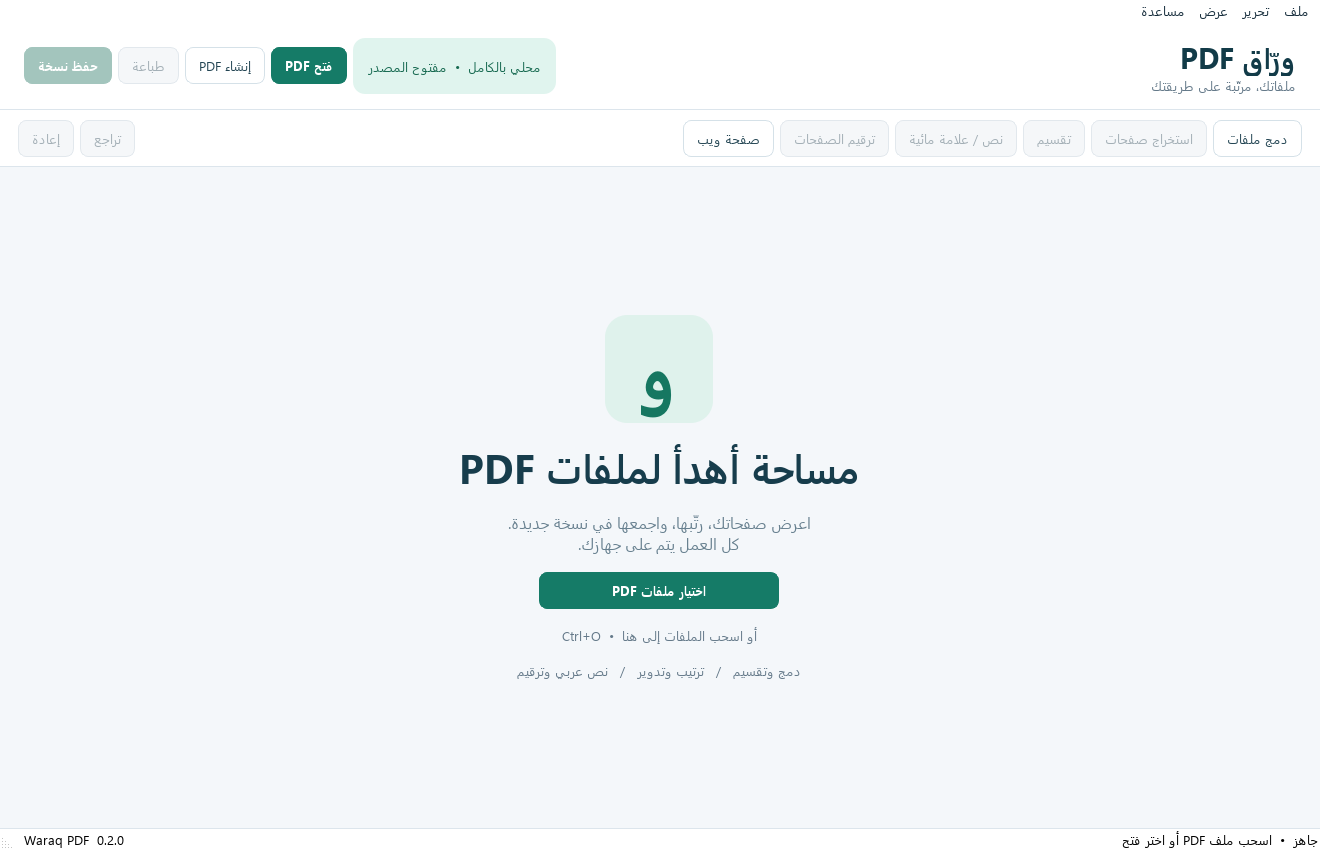
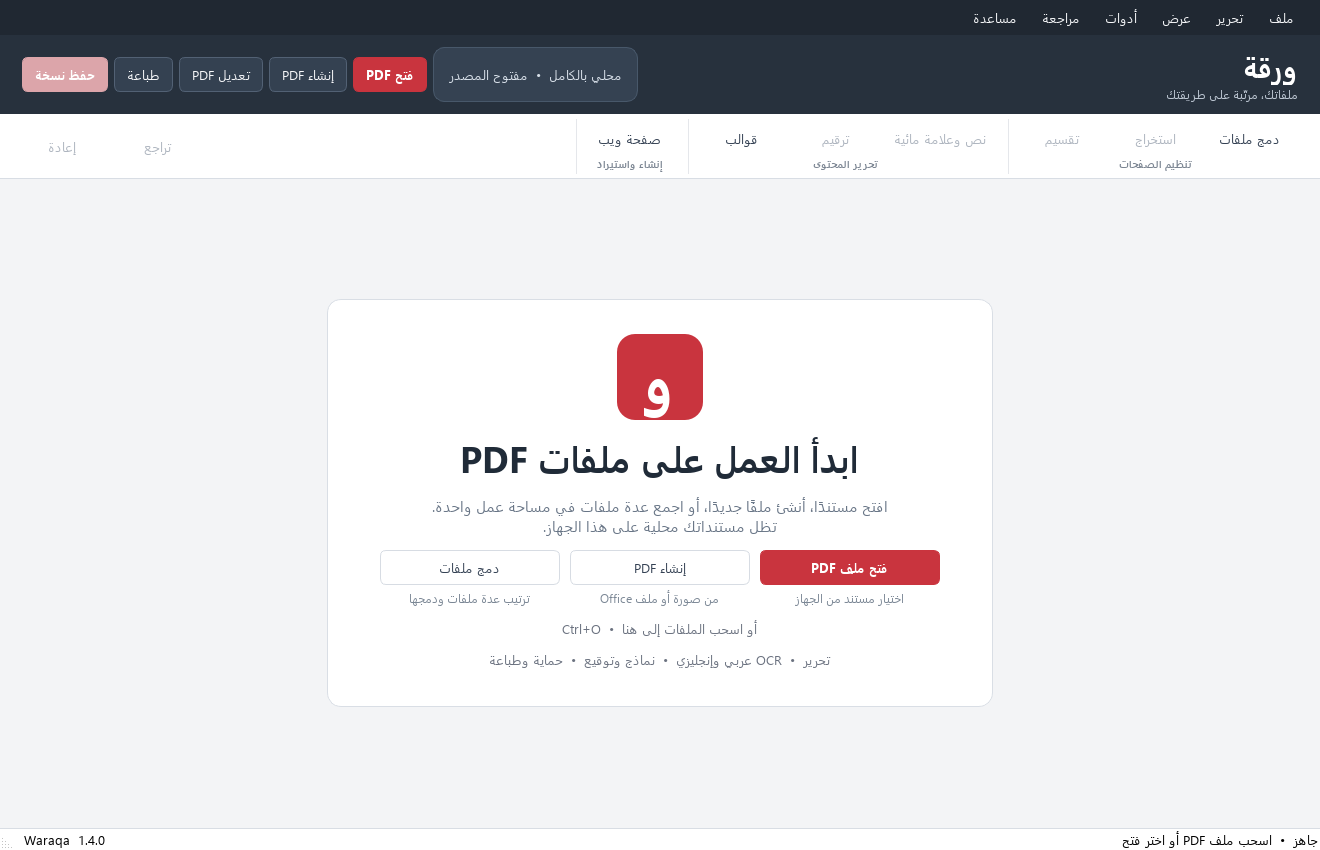
Redesign professional workspace for Waraqa 1.5.0

diff --git a/waraq/app.py b/waraq/app.py
@@ -16,7 +16,7 @@ from PySide6.QtPrintSupport import QPrinter, QPrintDialog, QPrintPreviewDialog, 
 from PySide6.QtWidgets import (
     QApplication, QAbstractItemView, QCheckBox, QComboBox, QDialog,
     QDialogButtonBox, QDoubleSpinBox, QFileDialog, QFormLayout, QFrame,
-    QHBoxLayout, QInputDialog, QLabel, QLineEdit, QListWidget,
+    QHBoxLayout, QInputDialog, QLabel, QLineEdit, QListWidget, QGridLayout,
     QListWidgetItem, QMainWindow, QMessageBox, QPushButton, QScrollArea,
     QSizePolicy, QSpinBox, QSplitter, QStackedWidget, QStatusBar,
     QToolBar, QVBoxLayout, QWidget, QStyledItemDelegate, QStyle, QProgressDialog, QDockWidget,
@@ -51,52 +51,71 @@ from .shortcuts import validate_shortcut_map
 
 STYLE = """
 * { font-family: 'Segoe UI'; font-size: 10pt; }
-QMainWindow, QDialog { background: #f4f7fa; color: #152c3b; }
-QMenuBar, QMenu { background: #ffffff; color: #152c3b; }
-QMenu::item:selected { background: #dff4ef; }
-QFrame#header { background: #ffffff; border-bottom: 1px solid #dce5ec; }
-QLabel#brand { font-size: 22pt; font-weight: 750; color: #123b48; }
-QLabel#tagline, QLabel#subtle { color: #647989; }
-QLabel#section { color: #274656; font-weight: 650; font-size: 11pt; }
-QLabel#badge { background: #e0f4ee; color: #166950; padding: 6px 12px; border-radius: 12px; }
-QFrame#tools { background: #ffffff; border-bottom: 1px solid #dce5ec; }
-QPushButton { background: #ffffff; color: #234553; border: 1px solid #d5e1e8; border-radius: 8px; padding: 8px 13px; min-height: 19px; }
-QPushButton:hover { background: #edf6f4; border-color: #81b5aa; }
-QPushButton:pressed { background: #d8eee8; }
-QPushButton:disabled { color: #a3afb6; background: #f5f7f9; border-color: #e2e8ed; }
-QPushButton#primary { background: #157b67; border-color: #157b67; color: white; font-weight: 650; }
-QPushButton#primary:hover { background: #106451; }
-QPushButton#primary:disabled { background: #a3c5bd; border-color: #a3c5bd; color: white; }
+QMainWindow, QDialog { background: #f3f4f6; color: #1f2937; }
+QMenuBar { background: #202832; color: #f7f8fa; padding: 2px 10px; spacing: 5px; }
+QMenuBar::item { padding: 7px 10px; border-radius: 5px; }
+QMenuBar::item:selected { background: #374151; }
+QMenu { background: #ffffff; color: #1f2937; border: 1px solid #d1d5db; padding: 6px; }
+QMenu::item { padding: 7px 26px; border-radius: 4px; }
+QMenu::item:selected { background: #feecee; color: #9f2530; }
+QMenu::separator { height: 1px; background: #e5e7eb; margin: 5px 8px; }
+QFrame#header { background: #27313d; border: none; }
+QLabel#brand { font-size: 22pt; font-weight: 750; color: #ffffff; }
+QLabel#tagline { color: #bdc7d3; font-size: 9pt; }
+QLabel#subtle { color: #6b7280; }
+QLabel#section { color: #263445; font-weight: 700; font-size: 11pt; }
+QLabel#badge { background: #354252; color: #d9e1ea; padding: 6px 12px; border: 1px solid #48586a; border-radius: 11px; }
+QFrame#tools { background: #ffffff; border-bottom: 1px solid #d8dde4; }
+QFrame#toolGroup { background: transparent; border-left: 1px solid #e5e7eb; }
+QLabel#toolGroupTitle { color: #7a8491; font-size: 8pt; font-weight: 600; }
+QPushButton { background: #ffffff; color: #344153; border: 1px solid #d7dce3; border-radius: 6px; padding: 7px 12px; min-height: 19px; }
+QPushButton:hover { background: #f8e9eb; border-color: #d8656c; color: #9d2831; }
+QPushButton:pressed { background: #f4d7da; }
+QPushButton:disabled { color: #aeb5bf; background: #f6f7f9; border-color: #e7e9ed; }
+QPushButton#primary { background: #c9343e; border-color: #c9343e; color: white; font-weight: 700; }
+QPushButton#primary:hover { background: #ac2832; border-color: #ac2832; color: white; }
+QPushButton#primary:disabled { background: #dca5aa; border-color: #dca5aa; color: white; }
+QPushButton#headerAction { background: #344151; color: #f7f8fa; border-color: #526174; }
+QPushButton#headerAction:hover { background: #46576a; color: white; border-color: #718198; }
+QPushButton#toolButton { border: none; background: transparent; min-width: 72px; padding: 8px 10px; }
+QPushButton#toolButton:hover { background: #f8e9eb; color: #a52c35; }
 QPushButton#danger { color: #b33e46; }
 QPushButton#ghost { background: transparent; border: none; color: #416370; }
-QFrame#sidebar { background: #ffffff; border-left: 1px solid #dce5ec; }
+QFrame#sidebar { background: #ffffff; border-left: 1px solid #d8dde4; }
 QListWidget { background: #f8fafc; border: none; outline: none; padding: 8px; }
-QListWidget::item { border: 1px solid #dfe7ed; border-radius: 9px; margin: 5px 2px; padding: 9px; color: #3a5665; background: white; }
-QListWidget::item:selected { background: #e5f5ef; border: 2px solid #24977c; color: #124f40; }
-QListWidget::item:hover { border-color: #76b7a6; }
-QScrollArea { border: none; background: #dfe7ed; }
-QWidget#previewSurface { background: #dfe7ed; }
-QLabel#pageImage { background: white; border: 1px solid #c7d2da; }
-QFrame#viewerBar { background: #f9fbfc; border-bottom: 1px solid #dce5ec; }
-QLineEdit, QSpinBox, QDoubleSpinBox, QComboBox { background: white; color: #152c3b; border: 1px solid #cfdae2; border-radius: 6px; padding: 6px; min-height: 20px; }
-QStatusBar { background: #ffffff; border-top: 1px solid #dce5ec; color: #5b7382; }
-QLabel#emptyTitle { font-size: 30pt; font-weight: 750; color: #173d4c; }
-QLabel#emptyText { font-size: 12pt; color: #67808f; }
-QLabel#emptyMark { font-size: 54pt; font-weight: 750; background: #dff2ec; color: #167761; border-radius: 22px; }
-QSplitter::handle { background: #dce5ec; width: 1px; }
-QToolTip { background: #173d4c; color: white; border: none; padding: 5px; }
+QListWidget::item { border: 1px solid #dfe3e8; border-radius: 7px; margin: 5px 2px; padding: 9px; color: #374151; background: white; }
+QListWidget::item:selected { background: #fff0f1; border: 2px solid #cc3b45; color: #8f232c; }
+QListWidget::item:hover { border-color: #d1787e; }
+QScrollArea { border: none; background: #e3e5e8; }
+QWidget#previewSurface { background: #e3e5e8; }
+QLabel#pageImage { background: white; border: 1px solid #bfc5cd; }
+QFrame#viewerBar { background: #ffffff; border-bottom: 1px solid #d8dde4; }
+QLineEdit, QSpinBox, QDoubleSpinBox, QComboBox { background: white; color: #1f2937; border: 1px solid #cfd5dd; border-radius: 5px; padding: 6px; min-height: 20px; }
+QStatusBar { background: #ffffff; border-top: 1px solid #d8dde4; color: #647184; }
+QFrame#emptyCard { background: #ffffff; border: 1px solid #d9dee5; border-radius: 14px; }
+QLabel#emptyTitle { font-size: 27pt; font-weight: 750; color: #202b38; }
+QLabel#emptyText { font-size: 11pt; color: #687586; }
+QLabel#emptyMark { font-size: 46pt; font-weight: 750; background: #c9343e; color: white; border-radius: 18px; }
+QLabel#startTitle { font-size: 11pt; font-weight: 700; color: #263445; }
+QLabel#startHint { font-size: 9pt; color: #7b8795; }
+QSplitter::handle { background: #d8dde4; width: 1px; }
+QToolTip { background: #202832; color: white; border: none; padding: 5px; }
 """
 
 DARK_STYLE = """
 QMainWindow, QDialog { background: #17232b; color: #e8f0f4; }
 QMenuBar, QMenu, QFrame#header, QFrame#tools, QFrame#sidebar, QStatusBar { background: #1d2c35; color: #e8f0f4; border-color: #38505d; }
-QLabel#brand { color: #7ed8c0; } QLabel#tagline, QLabel#subtle { color: #aec0ca; }
+QLabel#brand { color: #ffffff; } QLabel#tagline, QLabel#subtle { color: #aec0ca; }
 QLabel#badge { background: #24463e; color: #9ae2cf; }
 QPushButton { background: #263944; color: #e8f0f4; border-color: #49616e; }
 QPushButton:hover { background: #31505a; } QPushButton:disabled { color: #70828b; background: #202e36; }
+QPushButton#primary { background: #c9343e; border-color: #c9343e; color: white; }
+QPushButton#headerAction { background: #344553; color: white; }
+QFrame#emptyCard { background: #1d2c35; border-color: #3b505e; }
+QLabel#emptyTitle, QLabel#startTitle { color: #eef4f7; }
 QLineEdit, QSpinBox, QDoubleSpinBox, QComboBox, QListWidget { background: #21323c; color: #edf4f7; border-color: #48606c; }
 QListWidget::item { background: #263944; color: #dce8ed; border-color: #415963; }
-QListWidget::item:selected { background: #245c50; color: white; border-color: #62c6ad; }
+QListWidget::item:selected { background: #5a2d33; color: white; border-color: #df6b74; }
 QWidget#previewSurface, QScrollArea { background: #10191f; }
 QLabel#pageImage { background: white; }
 """
@@ -108,13 +127,13 @@ class PageDelegate(QStyledItemDelegate):
         painter.setRenderHint(QPainter.RenderHint.Antialiasing)
         rect = option.rect.adjusted(4, 4, -4, -4)
         selected = bool(option.state & QStyle.StateFlag.State_Selected)
-        painter.setBrush(QColor("#e5f5ef" if selected else "#ffffff"))
-        painter.setPen(QColor("#24977c" if selected else "#dfe7ed"))
+        painter.setBrush(QColor("#fff0f1" if selected else "#ffffff"))
+        painter.setPen(QColor("#cc3b45" if selected else "#dfe7ed"))
         painter.drawRoundedRect(rect, 9, 9)
         icon = index.data(Qt.ItemDataRole.DecorationRole)
         if isinstance(icon, QIcon):
             icon.paint(painter, QRect(rect.center().x() - 64, rect.top() + 9, 128, 166), Qt.AlignmentFlag.AlignCenter)
-        painter.setPen(QColor("#124f40" if selected else "#3a5665"))
+        painter.setPen(QColor("#8f232c" if selected else "#3a5665"))
         text = str(index.data(Qt.ItemDataRole.DisplayRole) or "").split("\n")
         painter.setFont(QFont("Segoe UI", 10, QFont.Weight.DemiBold))
         painter.drawText(QRect(rect.left() + 5, rect.top() + 177, rect.width() - 10, 20), Qt.AlignmentFlag.AlignCenter, text[0])
@@ -368,7 +387,7 @@ class MainWindow(QMainWindow):
         layout.setSpacing(0)
         header = QFrame(objectName="header")
         header_layout = QHBoxLayout(header)
-        header_layout.setContentsMargins(24, 16, 24, 16)
+        header_layout.setContentsMargins(22, 12, 22, 12)
         brand = QLabel("ورقة", objectName="brand")
         brand_column = QVBoxLayout()
         brand_column.setSpacing(1)
@@ -380,11 +399,13 @@ class MainWindow(QMainWindow):
         open_button = self.button("فتح PDF", self.open_dialog, primary=True)
         open_button.setToolTip("فتح مستند جديد · Ctrl+O")
         header_layout.addWidget(open_button)
-        header_layout.addWidget(self.button("إنشاء PDF", self.create_pdf_dialog))
+        create_button=self.button("إنشاء PDF", self.create_pdf_dialog);create_button.setObjectName('headerAction');header_layout.addWidget(create_button)
         self.edit_button = self.button("تعديل PDF", self.edit_page_content)
+        self.edit_button.setObjectName('headerAction')
         self.edit_button.setToolTip("تعديل نص الصفحة وإضافة النصوص والصور · Ctrl+Shift+E")
         header_layout.addWidget(self.edit_button)
         self.print_button = self.button("طباعة", self.print_document)
+        self.print_button.setObjectName('headerAction')
         self.print_button.setToolTip("الطباعة عبر طابعات Windows · Ctrl+P")
         header_layout.addWidget(self.print_button)
         self.save_button = self.button("حفظ نسخة", self.save_document, primary=True)
@@ -393,21 +414,21 @@ class MainWindow(QMainWindow):
 
         tools = QFrame(objectName="tools")
         tool_layout = QHBoxLayout(tools)
-        tool_layout.setContentsMargins(18, 10, 18, 10)
-        for key, title, handler in [
-            ("add", "دمج ملفات", self.merge_dialog),
-            ("extract", "استخراج صفحات", self.extract_pages),
-            ("split", "تقسيم", self.split_document),
-            ("text", "نص / علامة مائية", self.add_text),
-            ("number", "ترقيم الصفحات", self.add_numbers),
-            ("web", "صفحة ويب", self.import_web),
-            ("templates", "قوالب", self.insert_template),
-        ]:
-            self.buttons[key] = self.button(title, handler)
-            tool_layout.addWidget(self.buttons[key])
+        tool_layout.setContentsMargins(16, 5, 16, 5);tool_layout.setSpacing(4)
+        groups=[('تنظيم الصفحات',[("add","دمج ملفات",self.merge_dialog),("extract","استخراج",self.extract_pages),("split","تقسيم",self.split_document)]),
+                ('تحرير المحتوى',[("text","نص وعلامة مائية",self.add_text),("number","ترقيم",self.add_numbers),("templates","قوالب",self.insert_template)]),
+                ('إنشاء واستيراد',[("web","صفحة ويب",self.import_web)])]
+        for group_title,items in groups:
+            group=QFrame(objectName='toolGroup');column=QVBoxLayout(group);column.setContentsMargins(8,2,8,2);column.setSpacing(1)
+            row=QHBoxLayout();row.setSpacing(2)
+            for key,title,handler in items:
+                self.buttons[key]=self.button(title,handler);self.buttons[key].setObjectName('toolButton');row.addWidget(self.buttons[key])
+            column.addLayout(row);label=QLabel(group_title,objectName='toolGroupTitle');label.setAlignment(Qt.AlignmentFlag.AlignCenter);column.addWidget(label)
+            tool_layout.addWidget(group)
         tool_layout.addStretch()
         self.undo_button = self.button("تراجع", self.undo)
         self.redo_button = self.button("إعادة", self.redo)
+        self.undo_button.setObjectName('toolButton');self.redo_button.setObjectName('toolButton')
         tool_layout.addWidget(self.undo_button)
         tool_layout.addWidget(self.redo_button)
         layout.addWidget(tools)
@@ -443,27 +464,30 @@ class MainWindow(QMainWindow):
         widget = QWidget()
         layout = QVBoxLayout(widget)
         layout.setAlignment(Qt.AlignmentFlag.AlignCenter)
-        layout.setSpacing(18)
+        layout.setContentsMargins(28,28,28,28)
+        card=QFrame(objectName='emptyCard');card.setMaximumWidth(820);card_layout=QVBoxLayout(card);card_layout.setContentsMargins(52,34,52,38);card_layout.setSpacing(14)
         mark = QLabel("و", objectName="emptyMark")
-        mark.setFixedSize(108, 108)
+        mark.setFixedSize(86, 86)
         mark.setAlignment(Qt.AlignmentFlag.AlignCenter)
-        layout.addWidget(mark, 0, Qt.AlignmentFlag.AlignHCenter)
-        title = QLabel("مساحة أهدأ لملفات PDF", objectName="emptyTitle")
+        card_layout.addWidget(mark, 0, Qt.AlignmentFlag.AlignHCenter)
+        title = QLabel("ابدأ العمل على ملفات PDF", objectName="emptyTitle")
         title.setAlignment(Qt.AlignmentFlag.AlignCenter)
-        layout.addWidget(title)
-        text = QLabel("اعرض صفحاتك، رتّبها، واجمعها في نسخة جديدة.\nكل العمل يتم على جهازك.", objectName="emptyText")
+        card_layout.addWidget(title)
+        text = QLabel("افتح مستندًا، أنشئ ملفًا جديدًا، أو اجمع عدة ملفات في مساحة عمل واحدة.\nتظل مستنداتك محلية على هذا الجهاز.", objectName="emptyText")
         text.setAlignment(Qt.AlignmentFlag.AlignCenter)
-        text.setStyleSheet("line-height: 1.6;")
-        layout.addWidget(text)
-        open_button = self.button("اختيار ملفات PDF", self.open_dialog, primary=True)
-        open_button.setFixedWidth(240)
-        layout.addWidget(open_button, 0, Qt.AlignmentFlag.AlignHCenter)
+        card_layout.addWidget(text)
+        actions=QGridLayout();actions.setHorizontalSpacing(10);actions.setVerticalSpacing(5)
+        start_items=[('فتح ملف PDF','اختيار مستند من الجهاز',self.open_dialog,True),('إنشاء PDF','من صورة أو ملف Office',self.create_pdf_dialog,False),('دمج ملفات','ترتيب عدة ملفات ودمجها',self.merge_dialog,False)]
+        for column,(name,hint_text,handler,primary) in enumerate(start_items):
+            button=self.button(name,handler,primary=primary);button.setMinimumWidth(180);actions.addWidget(button,0,column)
+            hint_label=QLabel(hint_text,objectName='startHint');hint_label.setAlignment(Qt.AlignmentFlag.AlignCenter);actions.addWidget(hint_label,1,column)
+        card_layout.addLayout(actions)
         hint = QLabel("أو اسحب الملفات إلى هنا  •  Ctrl+O", objectName="subtle")
         hint.setAlignment(Qt.AlignmentFlag.AlignCenter)
-        layout.addWidget(hint)
-        features = QLabel("دمج وتقسيم   /   ترتيب وتدوير   /   نص عربي وترقيم", objectName="subtle")
+        card_layout.addWidget(hint)
+        features = QLabel("تحرير  •  OCR عربي وإنجليزي  •  نماذج وتوقيع  •  حماية وطباعة", objectName="subtle")
         features.setAlignment(Qt.AlignmentFlag.AlignCenter)
-        layout.addWidget(features)
+        card_layout.addWidget(features);layout.addWidget(card,0,Qt.AlignmentFlag.AlignCenter)
         return widget
 
     def page_sidebar(self):

diff --git a/scripts/qa_capture.py b/scripts/qa_capture.py
@@ -20,7 +20,7 @@ window=MainWindow();window.show()
 def wait_render():
     loop=QEventLoop();QTimer.singleShot(650,loop.quit);loop.exec()
 wait_render();window.grab().save(str(out/'welcome.png'))
-window.import_paths([str(root/'examples'/'welcome.pdf')]);wait_render()
+window.document.import_bytes('welcome.pdf',(root/'examples'/'welcome.pdf').read_bytes());window.refresh();wait_render()
 window.render_current();window.grab().save(str(out/'workspace.png'))
 window.document.add_overlay([0],Overlay('نسخة للمراجعة','center',34,'#b33e46',0.55))
 window.document.add_overlay(list(range(3)),Overlay('',numbering=True))

diff --git a/waraq/__init__.py b/waraq/__init__.py
@@ -1,3 +1,3 @@
 """Waraq PDF: independent PDF tools. No Adobe code or assets are used."""
 
-__version__ = "1.4.0"
+__version__ = "1.5.0"

diff --git a/README.md b/README.md
@@ -4,8 +4,9 @@
 
 هذا مشروع جديد تمامًا: لا يحتوي على كود Adobe أو Acrobat أو ملفات التفعيل الخاصة بهما. كود التطبيق بترخيص **MIT** ويمكنك تعديله ونشره مع إبقاء إشعار الترخيص. المكتبات التابعة تحتفظ بتراخيصها كما هو موضح في `THIRD_PARTY_NOTICES.md`.
 
-## الوظائف المتاحة في 1.4.0
+## الوظائف المتاحة في 1.5.0
 
+- واجهة احترافية حديثة بمساحة عمل واضحة، وشريط أدوات منظم، وشاشة بدء سريعة للفتح والإنشاء والدمج.
 - عرض الصفحات وتكبيرها وملاءمتها لعرض النافذة، مع صور مصغرة.
 - محرر صفحة: تحديد الكلمات أو الفقرات، واستبدالها أو حذفها مع استنتاج الخط والحجم واللون والمحاذاة، وإضافة نصوص عربية وصور، مع معاينة وتراجع وإعادة.
 - إعادة تدفق الفقرات وملاءمة حجم الخط تلقائيًا داخل المساحة المحددة، مع إبقاء الحجم الأصلي عندما تسمح المساحة.
@@ -48,9 +49,9 @@
 
 ## التشغيل على Windows
 
-للتثبيت: شغّل **Waraqa-1.4.0-Setup-x64.exe**. يثبت البرنامج للمستخدم الحالي، ويضيف اختصارات وإلغاء تثبيت ويسجله ضمن «فتح باستخدام» لملفات PDF. لا يستبدل برنامج PDF الافتراضي تلقائيًا؛ يمكنك اختياره بنفسك من إعدادات التطبيقات الافتراضية في Windows.
+للتثبيت: شغّل **Waraqa-1.5.0-Setup-x64.exe**. يثبت البرنامج للمستخدم الحالي، ويضيف اختصارات وإلغاء تثبيت ويسجله ضمن «فتح باستخدام» لملفات PDF. لا يستبدل برنامج PDF الافتراضي تلقائيًا؛ يمكنك اختياره بنفسك من إعدادات التطبيقات الافتراضية في Windows.
 
-تتوفر نسخة محمولة أيضًا: فك ضغط **Waraqa-1.4.0-windows-x64.zip** ثم افتح `Waraqa.exe` من داخل المجلد. احتفظ بمجلد `_internal` بجانب الملف التنفيذي؛ لا يحتاج التشغيل إلى تثبيت Python.
+تتوفر نسخة محمولة أيضًا: فك ضغط **Waraqa-1.5.0-windows-x64.zip** ثم افتح `Waraqa.exe` من داخل المجلد. احتفظ بمجلد `_internal` بجانب الملف التنفيذي؛ لا يحتاج التشغيل إلى تثبيت Python.
 
 النسخة التنفيذية والمُثبّت مبنيان محليًا وغير موقعين بشهادة تجارية. لا يحتاج التثبيت للمستخدم الحالي إلى صلاحيات مسؤول. عرض PDF ودمجه وتنظيمه وطباعته يعمل محليًا. حفظ صفحة ويب يتصل بعنوان الصفحة لتحميل محتواها، ولا يستخدم جلسة تسجيل الدخول أو إضافات المتصفح الشخصية. تحويل Office يحتاج تثبيت البرنامج المناسب؛ لا يثبت ورّاق Office أو LibreOffice أو متصفحًا نيابةً عنك.
 

diff --git a/docs/COMPATIBILITY.md b/docs/COMPATIBILITY.md
@@ -1,4 +1,4 @@
-# توافق ورقة 1.4.0
+# توافق ورقة 1.5.0
 
 الهدف هو تبادل ملفات PDF قياسية مع البرامج والمتصفحات، وليس ادعاء التطابق الكامل مع Acrobat Pro أو التوافق الشامل مع كل تطبيق وكل مستند.
 

diff --git a/docs/VALIDATION.md b/docs/VALIDATION.md
@@ -1,4 +1,4 @@
-# Validation of Waraqa 1.4.0
+# Validation of Waraqa 1.5.0
 
 Editing, runtime and setup validation: 22 October 2026. Host: Windows 11 x64, Python 3.12.14. Earlier conversion/browser observations from 0.2.0 on 21 October are explicitly retained below.
 
